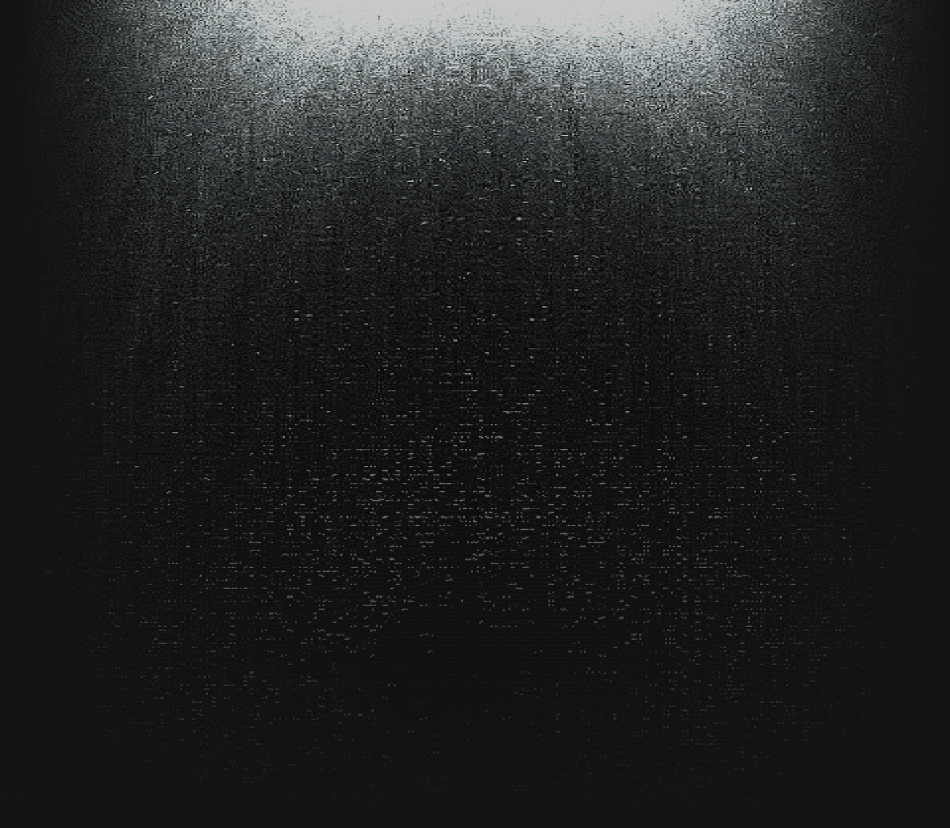
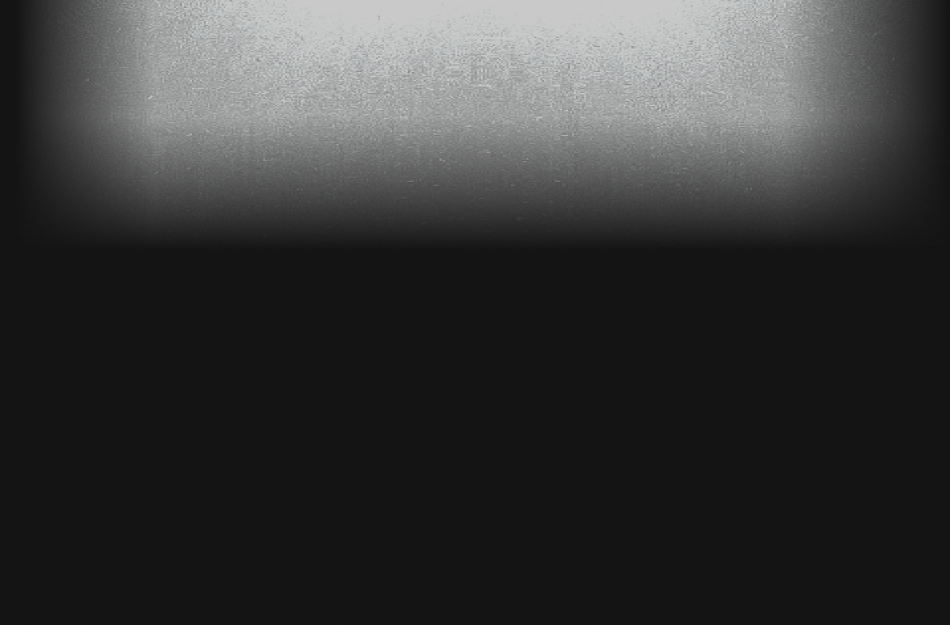
fix navbar and bg

diff --git a/src/components/ui/Navbar/style.module.scss b/src/components/ui/Navbar/style.module.scss
@@ -5,23 +5,29 @@
   background: $grey80;
   backdrop-filter: blur(1px);
   border-radius: 32px;
-  min-width: 468px;
+  width: 468px;
   height: 51px;
-  @include flex_row_space_between;
-  flex: 0 0;
-  transition: margin-bottom 0.5s ease-in-out;
+  display: grid;
+  grid-template-columns:41px 108px 86px 34px 66px;
+  grid-gap: 20px;
+  padding: 0 24px;
+  justify-content: center;
+  align-items: center;
+  transition: margin-bottom 0.2s ease-in-out;
   margin-bottom: 0;
   margin-left: 172px;
 
+
   & .link {
-    margin: 16px;
     white-space: nowrap;
+    text-align: center;
+    @include flex_row_center;
 
     & a {
       color: #141414;
       text-decoration: none;
       font-style: normal;
-      font-weight: 800;
+      font-weight: 600;
       font-size: 14px;
       line-height: 17px;
       text-align: center;
@@ -30,16 +36,23 @@
 
   &:hover {
     transition: margin-bottom 0.2s ease-in-out;
-    margin-bottom: 15px;
+    margin-bottom: 10px;
   }
 }
 
 .active {
-  font-style: normal;
-  font-weight: 800;
-  font-size: 18px;
-  line-height: 22px;
-  text-align: center;
+  margin: 0 0;
+
+
+  span {
+
+    color: #141414;
+    font-style: normal;
+    font-weight: 800;
+    font-size: 18px;
+    line-height: 22px;
+    text-align: center;
+  }
 }
 
 .navbar_modal {
@@ -76,7 +89,7 @@
   }
 
   @media (max-height: 450px) {
-    margin:0 40px ;
+    margin: 0 40px;
     grid-gap: 0;
     position: relative;
     display: grid;
@@ -156,10 +169,8 @@
       width: 50px;
       border: 1px solid rgba(189, 189, 189, 0.06);
       transform: rotate(90deg);
-
     }
   }
-
 }
 
 

diff --git a/src/styles/global.scss b/src/styles/global.scss
@@ -15,14 +15,22 @@ body {
   @include flex_column_center;
   width: 100%;
   min-height: 100vh;
+
+  &_bg {
+    position: absolute;
+    width: 100%;
+    top: 0;
+    left: 0;
+    z-index: -1;
+    @include flex_column_center;
+
+  }
 }
 
 .main::after {
   content: "";
-  position: absolute;
-  background: url("../assets/image/main/bg_main_2.png") no-repeat top center,
-  url("../assets/image/main/bg_main.png") no-repeat top center;
-
+  position: absolute;;
+  background: url("../assets/image/main/bg_main_2.png") no-repeat top center;
   top: 0;
   left: 0;
   z-index: -5;
@@ -39,7 +47,7 @@ body {
   @include flex_column_center;
 }
 
-.faq_bg{
+.faq_bg {
   position: absolute;
   background: url("../assets/image/faq/bg.png") no-repeat top center;
   left: -138px;
@@ -48,7 +56,7 @@ body {
   z-index: -1;
   width: 100vw;
   height: 90vh;
-  @media (max-width: 550px)  {
+  @media (max-width: 550px) {
     transform: rotate(271deg);
     left: -185px;
     top: 177px;

diff --git a/src/components/content/main/MainPage.tsx b/src/components/content/main/MainPage.tsx
@@ -13,12 +13,16 @@ import {scrollToTop} from "../../../utils/lib/scroll";
 import {Link} from 'react-router-dom';
 import MainPageHeader from "./MainPageHeader";
 import MainPageSection from "./MainPageSection";
+import bg from "../../../assets/image/main/bg_main.png";
 
 function MainPage() {
     useEffect(() => scrollToTop(), [])
     return (
         <>
             <div className={"_container"}>
+                <div className={"main_bg"}>
+                    <img src={bg} alt=""/>
+                </div>
                 <section className={style.main_header}>
                     <MainPageHeader/>
                 </section>

diff --git a/src/components/ui/Navbar/Navbar.tsx b/src/components/ui/Navbar/Navbar.tsx
@@ -31,7 +31,7 @@ const Navbar = ({customStyle = "", onClose, links}: NavbarPropsType) => {
                 links.map((link, index) => (
                     <li key={index} className={`${style.link} ${style[isActive(link.path) || '']}`}>
                         <Link  onClick={onClose} to={link.path}>
-                            {link.label}
+                            <span>{link.label}</span>
                         </Link>
                     </li>
                 ))

diff --git a/src/App.tsx b/src/App.tsx
@@ -4,11 +4,14 @@ import {BrowserRouter as Router, Route, Switch} from 'react-router-dom'
 import Header from "./components/global/Header/Header";
 import Footer from './components/global/Footer/Footer';
 import usePageRender from './hooks/useRederPage';
+import bg from '../src/assets/image/main/bg_main_2.png'
+
 
 
 function App() {
     return (
         <div className={"main"}>
+
             <Router>
                 <Header/>
                 <Switch>

diff --git a/src/components/global/Header/style.module.scss b/src/components/global/Header/style.module.scss
@@ -3,11 +3,15 @@
 
 
 .header {
+
   @include flex_row_space-around;
   margin: 0 auto;
   max-width: 1440px;
   width: 100%;
   height: 90px;
+
+
+
   &_navbar {
     margin: 0 0 0 172px;
   }
@@ -66,6 +70,7 @@
 
   }
 }
+
 @media (max-height: 500px) {
   .modal {
     height: 100vh;

diff --git a/src/components/content/main/style.module.scss b/src/components/content/main/style.module.scss
@@ -105,7 +105,7 @@
     &__image {
       margin-top: 7px;
       @include flex_column_center;
-      z-index: 100;
+     
       width: 447px;
       height: 436px;
     }

diff --git a/src/components/global/Footer/style.module.scss b/src/components/global/Footer/style.module.scss
@@ -14,9 +14,11 @@
     order: 2;
     position: relative;
 
+
     & img {
       width: 242px;
       height: 84px;
+      margin-bottom: 16px;
     }
 
     &__text {

diff --git a/src/index.scss b/src/index.scss
@@ -21,10 +21,6 @@ code {
   box-sizing: border-box;
 }
 
-ul[class],
-ol[class] {
-  padding: 0;
-}
 
 body,
 h1,
